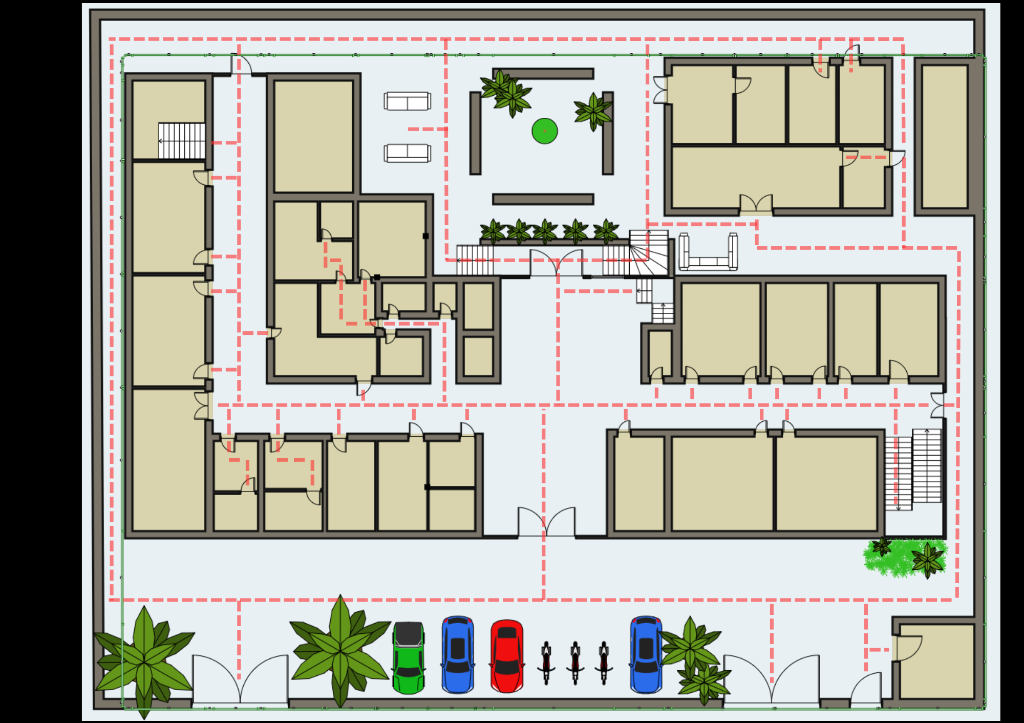
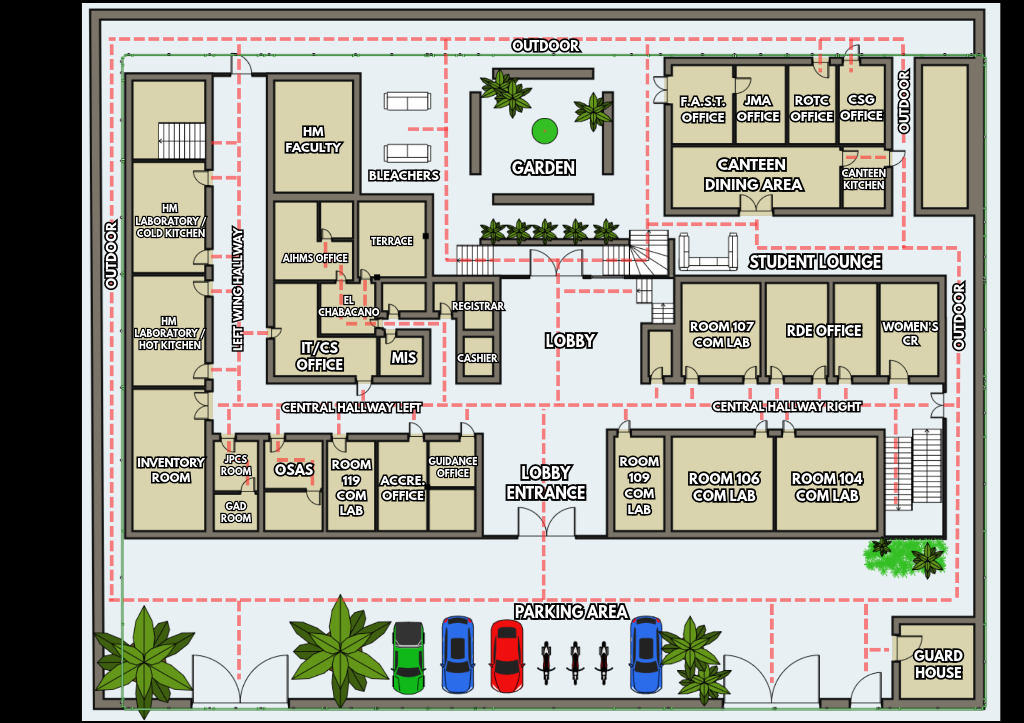
new:radio button replaced manual coordinates. map accurate AS FUCK

diff --git a/lib/modules/map/ground_floor.dart b/lib/modules/map/ground_floor.dart
@@ -149,52 +149,52 @@ class GroundFloorPainter extends BaseFloorPainter {
 
   static const List<_GroundRoomLabelItem> _roomLabels = [
     // Top-Right Wing
-    _GroundRoomLabelItem('FAST\nOFFICE', 0.6865, 0.1438, fontSize: 10.0, color: Color(0xFFB71C1C)),
-    _GroundRoomLabelItem('JMA\nOFFICE', 0.7422, 0.1438, fontSize: 9.0),
-    _GroundRoomLabelItem('ROTC\nOFFICE', 0.7930, 0.1438, fontSize: 9.0),
-    _GroundRoomLabelItem('CSG\nOFFICE', 0.8418, 0.1438, fontSize: 9.0),
-    _GroundRoomLabelItem('CANTEEN DINING AREA', 0.7383, 0.2400, fontSize: 11.0),
-    _GroundRoomLabelItem('CANTEEN\nKITCHEN', 0.8438, 0.2400, fontSize: 9.5),
+    _GroundRoomLabelItem('', 0.6865, 0.1438, fontSize: 10.0, color: Color(0xFFB71C1C)),
+    _GroundRoomLabelItem('', 0.7422, 0.1438, fontSize: 9.0),
+    _GroundRoomLabelItem('', 0.7930, 0.1438, fontSize: 9.0),
+    _GroundRoomLabelItem('', 0.8418, 0.1438, fontSize: 9.0),
+    _GroundRoomLabelItem('', 0.7383, 0.2400, fontSize: 11.0),
+    _GroundRoomLabelItem('', 0.8438, 0.2400, fontSize: 9.5),
 
     // Courtyard (Garden & Bleachers Differentiated)
-    _GroundRoomLabelItem('GARDEN', 0.5176, 0.1826, fontSize: 11.0, color: Color(0xFF1B5E20)),
-    _GroundRoomLabelItem('BLEACHERS', 0.3711, 0.1867, fontSize: 9.5, color: Color(0xFF2E7D32)),
-    _GroundRoomLabelItem('TERRACE', 0.3711, 0.3154, fontSize: 9.0, color: Color(0xFF455A64)),
+    _GroundRoomLabelItem('', 0.5176, 0.1826, fontSize: 11.0, color: Color(0xFF1B5E20)),
+    _GroundRoomLabelItem('', 0.3711, 0.1867, fontSize: 9.5, color: Color(0xFF2E7D32)),
+    _GroundRoomLabelItem('', 0.3711, 0.3154, fontSize: 9.0, color: Color(0xFF455A64)),
 
     // Far Left Wing (Stairs at top-left are NOT labeled per user instruction)
-    _GroundRoomLabelItem('HM LABORATORY\nCOLD KITCHEN', 0.1641, 0.3001, fontSize: 9.5),
-    _GroundRoomLabelItem('HM LABORATORY\nHOT KITCHEN', 0.1641, 0.4564, fontSize: 9.5),
-    _GroundRoomLabelItem('INVENTORY\nROOM', 0.1641, 0.6362, fontSize: 9.5),
+    _GroundRoomLabelItem('', 0.1641, 0.3001, fontSize: 9.5),
+    _GroundRoomLabelItem('', 0.1641, 0.4564, fontSize: 9.5),
+    _GroundRoomLabelItem('', 0.1641, 0.6362, fontSize: 9.5),
 
     // Middle Wing (West of Lobby)
-    _GroundRoomLabelItem('HM\nDEPARTMENT', 0.3057, 0.1881, fontSize: 10.0),
-    _GroundRoomLabelItem('AIHMS\nOFFICE', 0.3057, 0.3250, fontSize: 10.0),
-    _GroundRoomLabelItem('IT / CS\nDEPARTMENT', 0.2871, 0.4550, fontSize: 9.0),
-    _GroundRoomLabelItem('EL CHABACANO', 0.3389, 0.4260, fontSize: 8.5),
-    _GroundRoomLabelItem('MIS', 0.3398, 0.4993, fontSize: 9.0),
-    _GroundRoomLabelItem('CR', 0.3877, 0.4260, fontSize: 8.5),
-    _GroundRoomLabelItem('REGISTRAR', 0.3877, 0.4855, fontSize: 8.5),
-    _GroundRoomLabelItem('CASHIER', 0.3877, 0.5228, fontSize: 8.5),
-    _GroundRoomLabelItem('LOBBY', 0.5176, 0.4772, fontSize: 13.0),
+    _GroundRoomLabelItem('', 0.3057, 0.1881, fontSize: 10.0),
+    _GroundRoomLabelItem('', 0.3057, 0.3250, fontSize: 10.0),
+    _GroundRoomLabelItem('', 0.2871, 0.4550, fontSize: 9.0),
+    _GroundRoomLabelItem('', 0.3389, 0.4260, fontSize: 8.5),
+    _GroundRoomLabelItem('', 0.3398, 0.4993, fontSize: 9.0),
+    _GroundRoomLabelItem('', 0.3877, 0.4260, fontSize: 8.5),
+    _GroundRoomLabelItem('', 0.3877, 0.4855, fontSize: 8.5),
+    _GroundRoomLabelItem('', 0.3877, 0.5228, fontSize: 8.5),
+    _GroundRoomLabelItem('', 0.5176, 0.4772, fontSize: 13.0),
 
     // Middle Row (East of Lobby)
-    _GroundRoomLabelItem('ROOM 108', 0.6445, 0.4564, fontSize: 8.5),
-    _GroundRoomLabelItem('ROOM 107\nCOM LAB', 0.7031, 0.4564, fontSize: 9.0),
-    _GroundRoomLabelItem('RDE\nOFFICE', 0.7764, 0.4564, fontSize: 9.0),
-    _GroundRoomLabelItem('WOMEN\'S\nCR', 0.8350, 0.4564, fontSize: 8.5),
+    _GroundRoomLabelItem('', 0.6445, 0.4564, fontSize: 8.5),
+    _GroundRoomLabelItem('', 0.7031, 0.4564, fontSize: 9.0),
+    _GroundRoomLabelItem('', 0.7764, 0.4564, fontSize: 9.0),
+    _GroundRoomLabelItem('', 0.8350, 0.4564, fontSize: 8.5),
 
     // Bottom Wing (Stairs at bottom-right are NOT labeled per user instruction)
-    _GroundRoomLabelItem('JPCS\nOFFICE', 0.2305, 0.6404, fontSize: 8.5),
-    _GroundRoomLabelItem('GAD\nOFFICE', 0.2305, 0.7068, fontSize: 8.5),
-    _GroundRoomLabelItem('OSAS', 0.2861, 0.6694, fontSize: 9.5),
-    _GroundRoomLabelItem('ROOM 119\nCOM LAB', 0.3418, 0.6694, fontSize: 9.0),
-    _GroundRoomLabelItem('ACCRE.\nOFFICE', 0.3926, 0.6694, fontSize: 8.5),
-    _GroundRoomLabelItem('GUIDANCE', 0.4414, 0.6404, fontSize: 8.5),
-    _GroundRoomLabelItem('DEAN\'S\nOFFICE', 0.4404, 0.7068, fontSize: 8.5),
-    _GroundRoomLabelItem('ROOM 109\nCOM LAB', 0.6240, 0.6694, fontSize: 9.0),
-    _GroundRoomLabelItem('ROOM 106\nCOM LAB', 0.7051, 0.6694, fontSize: 9.0),
-    _GroundRoomLabelItem('ROOM 104\nCOM LAB', 0.8066, 0.6694, fontSize: 9.0),
-    _GroundRoomLabelItem('GUARD HOUSE', 0.9141, 0.9225, fontSize: 9.5),
+    _GroundRoomLabelItem('', 0.2305, 0.6404, fontSize: 8.5),
+    _GroundRoomLabelItem('', 0.2305, 0.7068, fontSize: 8.5),
+    _GroundRoomLabelItem('', 0.2861, 0.6694, fontSize: 9.5),
+    _GroundRoomLabelItem('', 0.3418, 0.6694, fontSize: 9.0),
+    _GroundRoomLabelItem('', 0.3926, 0.6694, fontSize: 8.5),
+    _GroundRoomLabelItem('', 0.4414, 0.6404, fontSize: 8.5),
+    _GroundRoomLabelItem('', 0.4404, 0.7068, fontSize: 8.5),
+    _GroundRoomLabelItem('', 0.6240, 0.6694, fontSize: 9.0),
+    _GroundRoomLabelItem('', 0.7051, 0.6694, fontSize: 9.0),
+    _GroundRoomLabelItem('', 0.8066, 0.6694, fontSize: 9.0),
+    _GroundRoomLabelItem('', 0.9141, 0.9225, fontSize: 9.5),
   ];
 
   @override

diff --git a/lib/modules/map/second_floor.dart b/lib/modules/map/second_floor.dart
@@ -162,34 +162,34 @@ class SecondFloorPainter extends BaseFloorPainter {
 
   static const List<_RoomLabelItem> _roomLabels = [
     // Left Wing Rooms (Stairs at top-left are NOT labeled per user instruction)
-    _RoomLabelItem('ROOM 220', 0.0645, 0.2877, fontSize: 10.0),
-    _RoomLabelItem('ROOM 219', 0.0645, 0.3928, fontSize: 10.0),
-    _RoomLabelItem('ROOM 218', 0.0645, 0.5021, fontSize: 10.0),
-    _RoomLabelItem('ROOM 217 /\nREADING ROOM', 0.0645, 0.6680, fontSize: 8.5),
+    _RoomLabelItem('', 0.0645, 0.2877, fontSize: 10.0),
+    _RoomLabelItem('', 0.0645, 0.3928, fontSize: 10.0),
+    _RoomLabelItem('', 0.0645, 0.5021, fontSize: 10.0),
+    _RoomLabelItem('', 0.0645, 0.6680, fontSize: 8.5),
 
     // Library Area
-    _RoomLabelItem('LIBRARY\nEXTENSION', 0.2598, 0.2573, fontSize: 9.5),
-    _RoomLabelItem('LIBRARY', 0.2734, 0.4481, fontSize: 11.5),
+    _RoomLabelItem('', 0.2598, 0.2573, fontSize: 9.5),
+    _RoomLabelItem('', 0.2734, 0.4481, fontSize: 11.5),
 
     // North Row Rooms (Central staircase is NOT labeled per user instruction)
-    _RoomLabelItem('ROOM 211', 0.3877, 0.4910, fontSize: 9.5),
-    _RoomLabelItem('ROOM 209', 0.4648, 0.4910, fontSize: 9.5),
-    _RoomLabelItem('ROOM 207', 0.5420, 0.4910, fontSize: 9.5),
-    _RoomLabelItem('ROOM 205', 0.7070, 0.4910, fontSize: 9.5),
-    _RoomLabelItem('ROOM 203', 0.7842, 0.4910, fontSize: 9.5),
-    _RoomLabelItem('ROOM 202', 0.8613, 0.4910, fontSize: 9.5),
-    _RoomLabelItem('MEN\'S CR', 0.9385, 0.4910, fontSize: 8.5),
+    _RoomLabelItem('', 0.3877, 0.4910, fontSize: 9.5),
+    _RoomLabelItem('', 0.4648, 0.4910, fontSize: 9.5),
+    _RoomLabelItem('', 0.5420, 0.4910, fontSize: 9.5),
+    _RoomLabelItem('', 0.7070, 0.4910, fontSize: 9.5),
+    _RoomLabelItem('', 0.7842, 0.4910, fontSize: 9.5),
+    _RoomLabelItem('', 0.8613, 0.4910, fontSize: 9.5),
+    _RoomLabelItem('', 0.9385, 0.4910, fontSize: 8.5),
 
     // South Row Rooms (Right staircase is NOT labeled per user instruction)
-    _RoomLabelItem('DEPT.', 0.1807, 0.6985, fontSize: 10.5),
-    _RoomLabelItem('ROOM 214', 0.2822, 0.6985, fontSize: 9.5),
-    _RoomLabelItem('ROOM 213', 0.3594, 0.6985, fontSize: 9.5),
-    _RoomLabelItem('ROOM 212', 0.4365, 0.6985, fontSize: 9.5),
-    _RoomLabelItem('ROOM 210', 0.5264, 0.6985, fontSize: 9.5),
-    _RoomLabelItem('ROOM 208', 0.6289, 0.6985, fontSize: 9.5),
-    _RoomLabelItem('ROOM 206', 0.7236, 0.6985, fontSize: 9.5),
-    _RoomLabelItem('ROOM 204', 0.8066, 0.6985, fontSize: 9.5),
-    _RoomLabelItem('ROOM 201', 0.8770, 0.6985, fontSize: 9.5),
+    _RoomLabelItem('', 0.1807, 0.6985, fontSize: 10.5),
+    _RoomLabelItem('', 0.2822, 0.6985, fontSize: 9.5),
+    _RoomLabelItem('', 0.3594, 0.6985, fontSize: 9.5),
+    _RoomLabelItem('', 0.4365, 0.6985, fontSize: 9.5),
+    _RoomLabelItem('', 0.5264, 0.6985, fontSize: 9.5),
+    _RoomLabelItem('', 0.6289, 0.6985, fontSize: 9.5),
+    _RoomLabelItem('', 0.7236, 0.6985, fontSize: 9.5),
+    _RoomLabelItem('', 0.8066, 0.6985, fontSize: 9.5),
+    _RoomLabelItem('', 0.8770, 0.6985, fontSize: 9.5),
   ];
 
   @override
